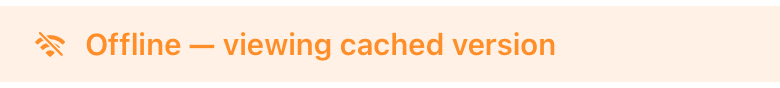
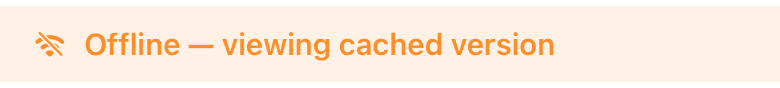
TAL-200: make the test suite pass on iOS 27.0
The pool and CI now run iOS 27.0, where 24 tests failed:

- The minimized session search is a bottom-toolbar "Search" button on
  iOS 27 instead of a collapsed search field, so every test routed
  through tapFixtureSession lost its viewport bottom. One shared
  accessor (sessionSearchControl) picks whichever the runtime exposes;
  the Command-F test waits for the field to open.
- The Kanban toolbar test re-queried the overflow button after opening
  its menu; iOS 27 drops the button from the tree while the menu is
  open. Decide the placement once.
- Six visual references drifted only in glyph rasterization (offline
  banner, session-list empty state, Dynamic Island compact/minimal
  running); re-recorded on iOS 27 with the tolerance unchanged.
- iOS 27 intermittently resets the onboarding pager to the welcome page
  when the device rotates with the keyboard up (TAL-201). The rotation
  check is a non-strict expected failure on iOS 27 until that lands.

Validation: scripts/test-ios on the iOS 27.0 pool, 2307 passed, 0
failed, 2 skipped, 2 expected failures; the onboarding class re-run
with the final expectation covers all three variants.

diff --git a/TalariaUITests/TalariaUITests.swift b/TalariaUITests/TalariaUITests.swift
@@ -1299,15 +1299,17 @@ final class KanbanBoardPickerUITests: AdaptiveLayoutUITestCase {
 
     /// Select Cards and Card Filters keep their state whether they sit in the bar or the overflow.
     private func assertSelectionAndFiltersReachable(in bar: XCUIElement, overflow: XCUIElement, variant: Variant) {
+        // Decide once: iOS 27 drops the More button from the tree while its menu is open.
+        let usesOverflow = overflow.exists
         func secondaryAction(_ label: String) -> XCUIElement {
-            guard overflow.exists else { return bar.buttons[label] }
+            guard usesOverflow else { return bar.buttons[label] }
             tap(at: overflow.frame.center)
             return app.buttons[label].firstMatch
         }
 
         let filters = secondaryAction("Card Filters")
         XCTAssertTrue(filters.waitForExistence(timeout: 3), "Card Filters unreachable [\(variant.name)]")
-        let selectCards = overflow.exists ? app.buttons["Select Cards"].firstMatch : bar.buttons["Select Cards"]
+        let selectCards = usesOverflow ? app.buttons["Select Cards"].firstMatch : bar.buttons["Select Cards"]
         XCTAssertTrue(selectCards.exists, "Select Cards unreachable [\(variant.name)]")
         XCTAssertTrue(selectCards.isEnabled, "Select Cards disabled in the fixture Board [\(variant.name)]")
         tap(at: selectCards.frame.center)
@@ -1384,8 +1386,20 @@ final class AdaptiveLayoutOnboardingUITests: AdaptiveLayoutUITestCase {
                 serverField.tap()
                 XCTAssertTrue(hasKeyboardFocus(serverField), "Server field did not take focus [\(variant.name)]")
                 XCUIDevice.shared.orientation = variant.orientation == .portrait ? .landscapeLeft : .portrait
-                XCTAssertTrue(serverField.waitForExistence(timeout: 5), "Server URL field lost on rotation [\(variant.name)]")
-                XCTAssertTrue(hasKeyboardFocus(serverField), "Rotation dropped field focus [\(variant.name)]")
+                // iOS 27 usually resets the page-style TabView to the welcome page when the
+                // device rotates with the keyboard up (TAL-201); not strict, because some
+                // variants survive. Remove with that fix. One short-circuited assertion,
+                // because reading focus on the missing field would interrupt the test before
+                // the remaining variants and the title check.
+                let pagerReset = XCTExpectedFailure.Options()
+                pagerReset.isEnabled = ProcessInfo.processInfo.operatingSystemVersion.majorVersion >= 27
+                pagerReset.isStrict = false
+                XCTExpectFailure("TAL-201: iOS 27 pager resets on rotation", options: pagerReset) {
+                    XCTAssertTrue(
+                        serverField.waitForExistence(timeout: 5) && hasKeyboardFocus(serverField),
+                        "Server URL field or its focus lost on rotation [\(variant.name)]"
+                    )
+                }
                 app.terminate()
             }
         }
@@ -1499,6 +1513,16 @@ extension TalariaUITestCase {
         sidebar.descendants(matching: .any)[destination].firstMatch.tap()
     }
 
+    /// The session list's search field once it is open.
+    var sessionSearchField: XCUIElement {
+        app.searchFields["Search sessions"]
+    }
+
+    /// The minimized session search at the bottom of the list. iOS 26 still exposes
+    /// the collapsed field; iOS 27 replaces it with a toolbar button until it opens.
+    var sessionSearchControl: XCUIElement {
+        sessionSearchField.exists ? sessionSearchField : app.buttons["Search"]
+    }
 }
 
 /// Shared by every `TalariaUITestCase` file: the Settings walk and the coordinate taps that
@@ -1626,7 +1650,7 @@ fileprivate extension TalariaUITestCase {
     func tapFixtureSession(_ session: XCUIElement) {
         let sessionList = app.collectionViews.firstMatch
         let viewportTop = app.navigationBars["Chats"].frame.maxY
-        let viewportBottom = app.searchFields["Search sessions"].frame.minY
+        let viewportBottom = sessionSearchControl.frame.minY
 
         for _ in 0..<12 {
             if session.exists,

diff --git a/TalariaUITests/AppEntryPointUITests.swift b/TalariaUITests/AppEntryPointUITests.swift
@@ -228,12 +228,12 @@ final class KeyboardCommandUITests: AppEntryPointUITestCase {
     func testSearchCommandFocusesSessionSearch() throws {
         launchFixtureOnSessionList()
 
-        let search = app.searchFields["Search sessions"]
-        XCTAssertTrue(search.waitForExistence(timeout: 15), "Missing the session search field")
-        XCTAssertFalse(hasKeyboardFocus(search), "Session search starts unfocused")
+        XCTAssertTrue(sessionSearchControl.waitForExistence(timeout: 15), "Missing the session search control")
+        let search = sessionSearchField
+        XCTAssertFalse(search.exists && hasKeyboardFocus(search), "Session search starts unfocused")
 
         XCTAssertTrue(
-            pressCommand("f", until: hasKeyboardFocus(search)),
+            pressCommand("f", until: search.exists && hasKeyboardFocus(search)),
             "Command-F did not focus session search"
         )
     }
